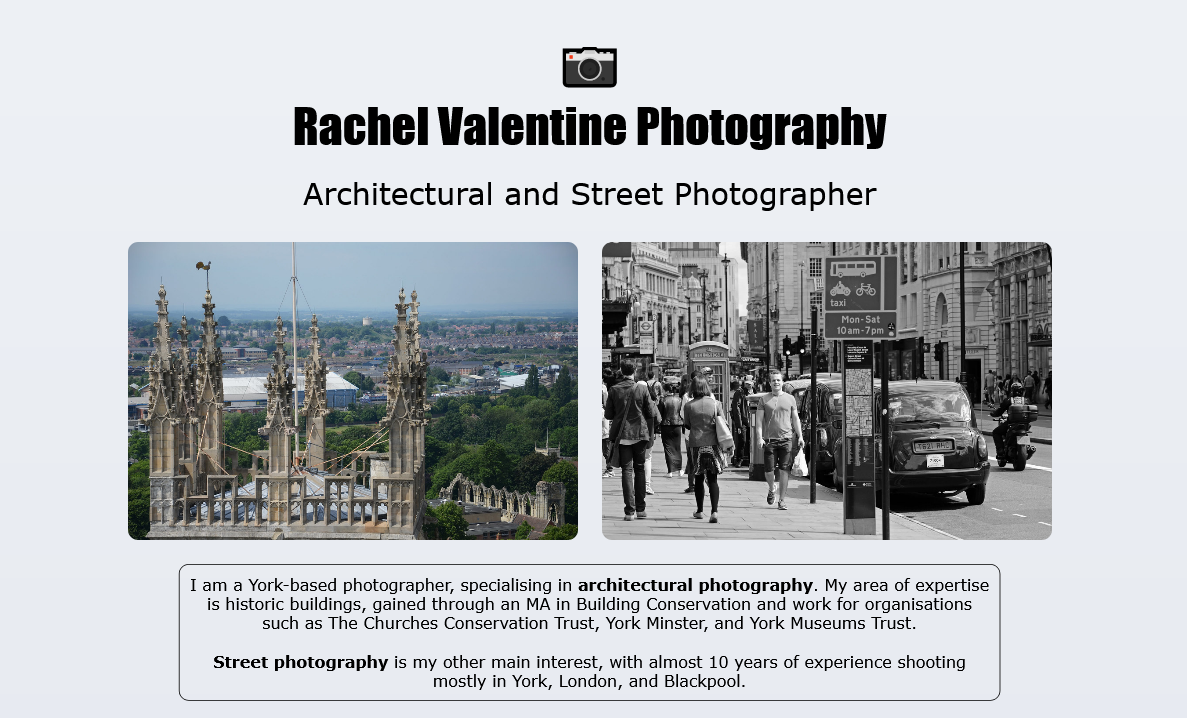
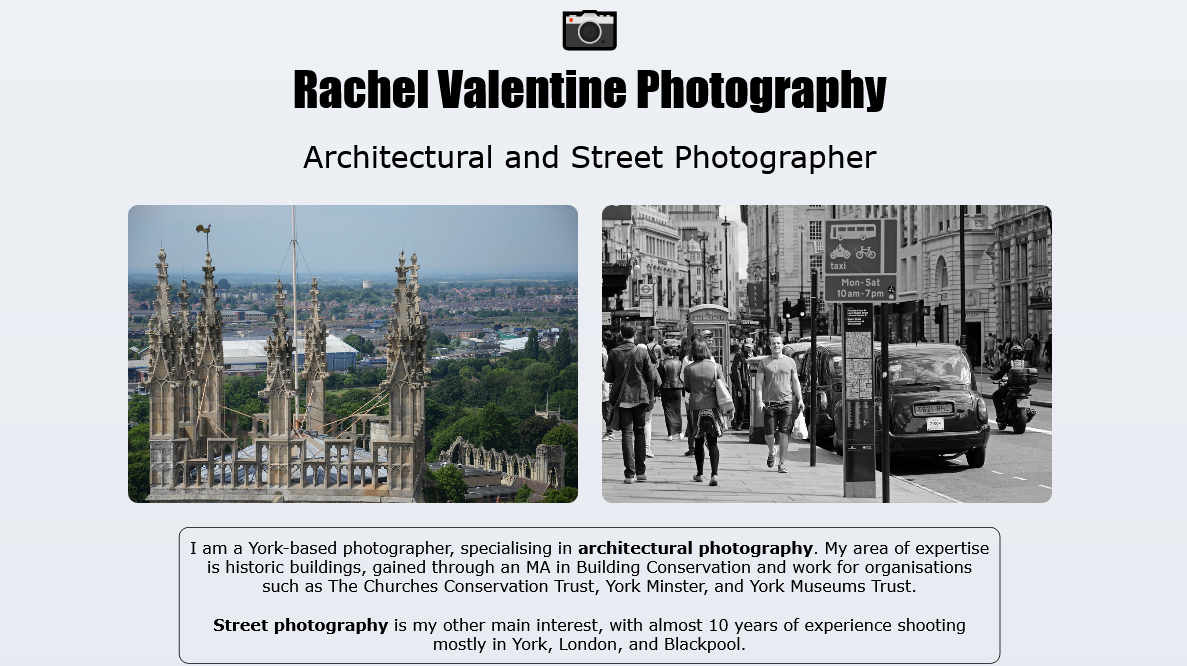
Removed incorrect CSS

Changed region(s): [[0.0935, 0.0, 0.904, 1.0]]

diff --git a/index.html b/index.html
@@ -64,11 +64,11 @@
     </div>
     
 
-<div class="container projects">
+<div class="container-fluid projects d-flex">
 <div class="row">
-<div class="col-md-4 mt-5 pt-5 pe-5"> <img src="/images/photography.png" alt="Screenshot of photography project" class="project-images img-fluid d-none d-md-block"> <div><strong>Photography Landing Page</strong> <br /> A landing page coded with HTML, CSS, and JavaScript</div> <div> <a href="https://s3.amazonaws.com/shecodesio-production/challenge_submissions/files/000/355/085/original/project.html?1621597341" class="btn project-buttons mt-3" target=_blank>Launch Photography Project</a></div> </div>
-<div class="col-md-4"> <img src="/images/weather.png" alt="Screenshot of weather app" class="project-images img-fluid d-none d-md-block"> <div> <strong>Weather App</strong> <br /> A weather app coded with vanilla JavaScript and using APIs</div> <div><a href="https://cocky-bell-fe1c34.netlify.app/" class="btn project-buttons mt-3" target=_blank> Launch Weather App</a></div> </div>
-<div class="col-md-4 mt-5 pt-5 ps-5"><img src="/images/portfolio.png" alt="Screenshot of website" class="project-images img-fluid d-none d-md-block"> <div> <strong>Responsive Portfolio Website</strong> <br /> A fully responsive website to showcase my projects and progress </div> <div><a href="https://zen-visvesvaraya-696ae0.netlify.app/" class="btn project-buttons mt-3" target=_blank>Find out more</a></div> </div></div>
+<div class="col-md-4 mt-5 pt-5 photo-project d-flex"> <img src="/images/photography.png" alt="Screenshot of photography project" class="project-images img-fluid d-none d-md-block"> <div><strong>Photography Landing Page</strong> <br /> A landing page coded with HTML, CSS, and JavaScript</div> <div> <a href="https://s3.amazonaws.com/shecodesio-production/challenge_submissions/files/000/355/085/original/project.html?1621597341" class="btn project-buttons mt-3" target=_blank>Launch Photography Project</a></div> </div>
+<div class="col-md-4 weather-project d-flex"> <img src="/images/weather.png" alt="Screenshot of weather app" class="project-images img-fluid d-none d-md-block"> <div> <strong>Weather App</strong> <br /> A weather app coded with vanilla JavaScript and using APIs</div> <div><a href="https://cocky-bell-fe1c34.netlify.app/" class="btn project-buttons mt-3" target=_blank> Launch Weather App</a></div> </div>
+<div class="col-md-4 mt-5 pt-5 portfolio-project d-flex"><img src="/images/portfolio.png" alt="Screenshot of website" class="project-images img-fluid d-none d-md-block"> <div> <strong>Responsive Portfolio Website</strong> <br /> A fully responsive website to showcase my projects and progress </div> <div><a href="https://zen-visvesvaraya-696ae0.netlify.app/" class="btn project-buttons mt-3" target=_blank>Find out more</a></div> </div></div>
 </div>
 </div>
 

diff --git a/src/portfolio.css b/src/portfolio.css
@@ -52,7 +52,7 @@ h2 {
 }
 
 .project-images {
-  width: 100%;
+  width: 900px;
   height: auto;
   padding: 20px;
   text-align: center;
@@ -76,12 +76,31 @@ h2 {
 
   h2 {
     font-size: 28px;
+    line-height: 0.5;
+  }
+
+  .hero {
+    margin-bottom: 0;
+    padding-bottom: 0;
   }
 
   .projects {
     font-size: 20px;
-    margin: 20px;
-    padding: 20px;
+  }
+
+  .photo-project {
+    padding: 0px;
+    text-align: center;
+  }
+
+  .weather-project {
+    margin-top: 60px;
+    padding: 0px;
+    text-align: center;
+  }
+
+  .portfolio-project {
+    padding: 0px;
     text-align: center;
   }
 }
